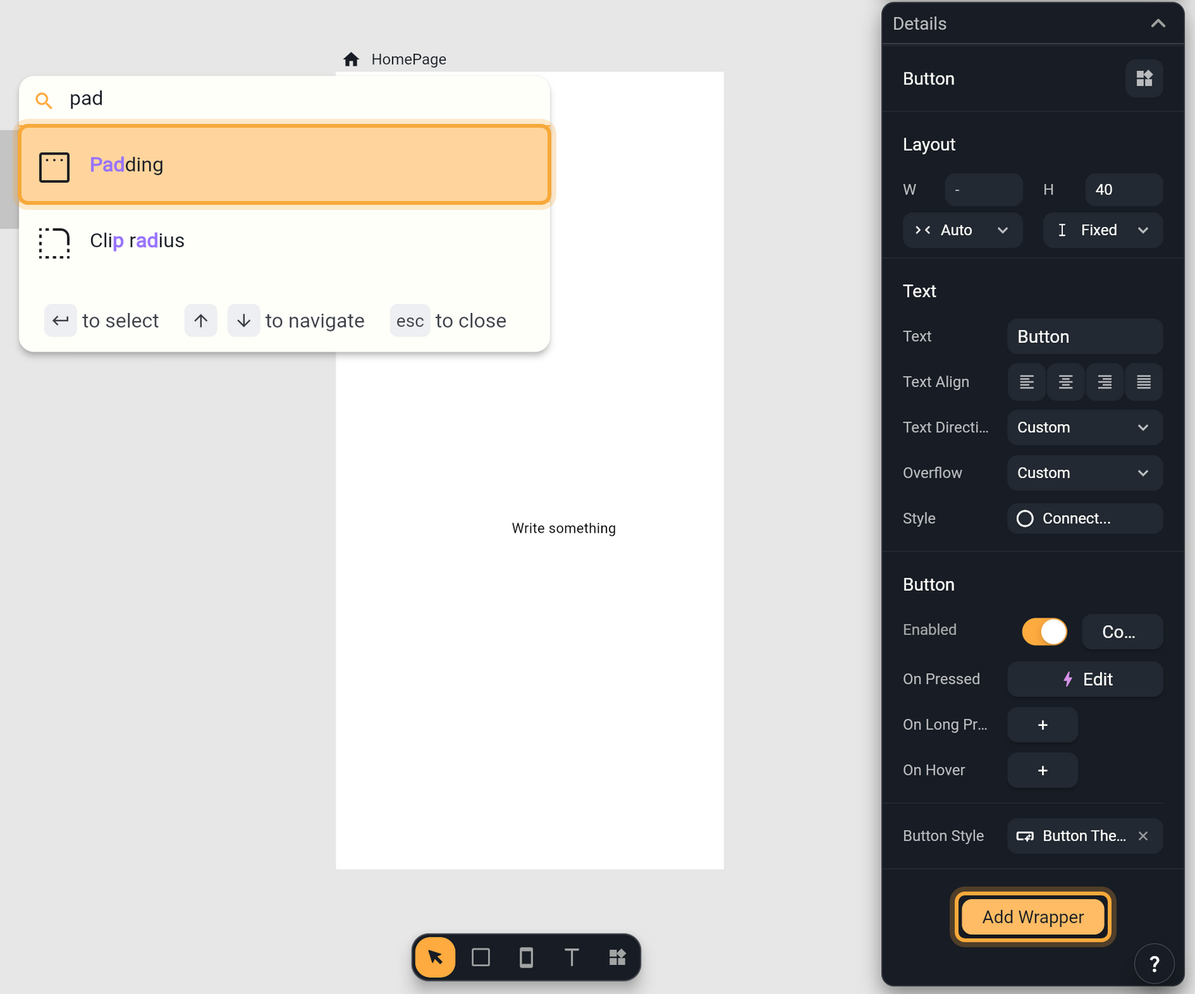
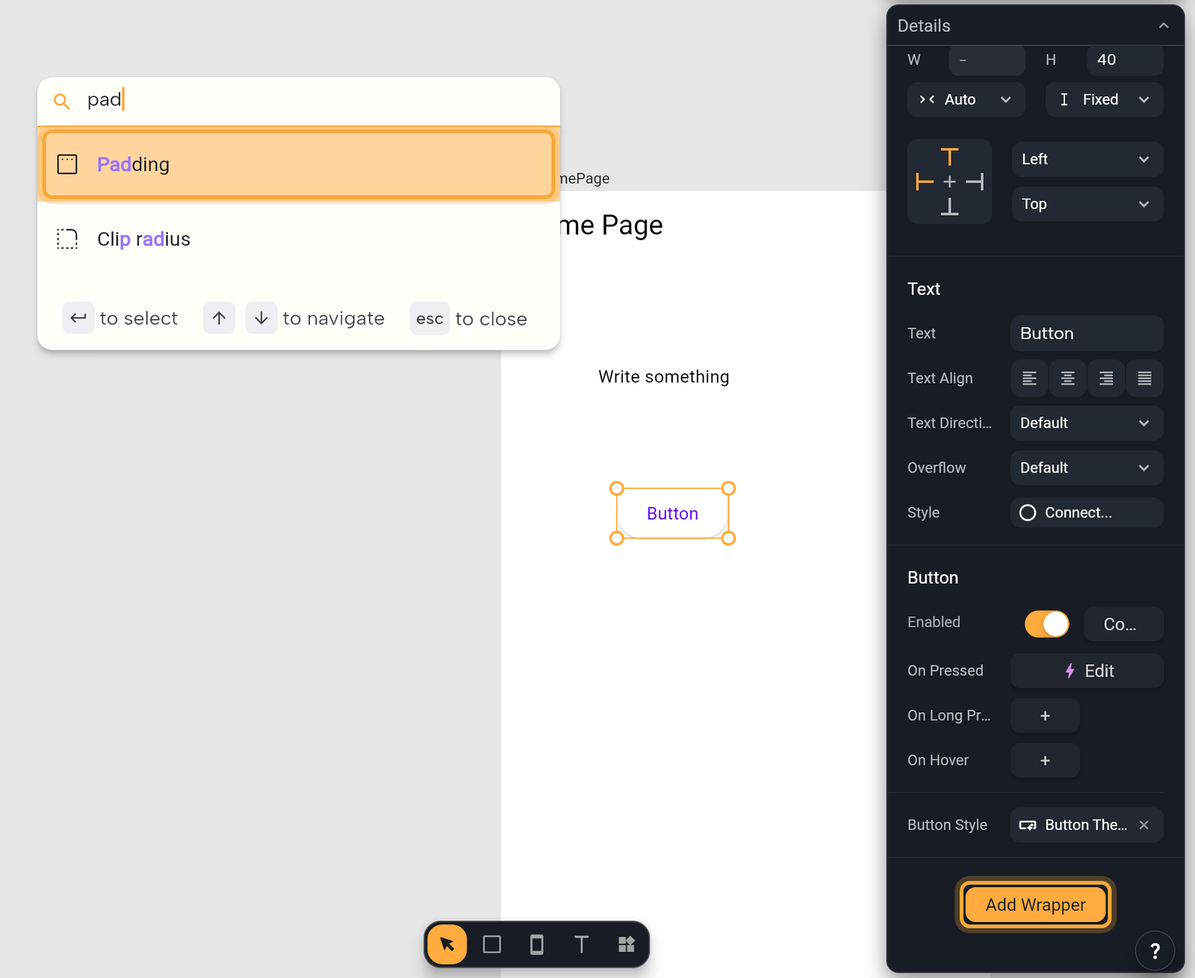
Re-take the six Nowa AI panel screenshots from 3.13 (signed in, no prompts); add an alt-text sync script
Claude-Session: https://claude.ai/code/session_01CvjREJT7NCVTsCb3JhoYvz

diff --git a/_rewrite/captures/tools/sync-alt.py b/_rewrite/captures/tools/sync-alt.py
@@ -1,0 +1,58 @@
+#!/usr/bin/env python3
+"""Refresh the alt text of embedded screenshots from the capture log.
+
+When a screenshot is re-taken under the same file name, the page keeps the old alt text. The capture log
+(_rewrite/captures/log.md, `| id | file | alt text | checked |`) holds the alt text written by whoever looked at the
+current image, so this script copies it into every `![alt](file)` that embeds that file. Videos are skipped (their
+alt cell describes placement, not the picture).
+
+Usage: python3 -I _rewrite/captures/tools/sync-alt.py [--dry-run]   (run from the docs repo root)
+"""
+import pathlib
+import re
+import sys
+
+ROOT = pathlib.Path(__file__).resolve().parents[3]
+LOG = ROOT / '_rewrite' / 'captures' / 'log.md'
+DOCS = ROOT / 'docs'
+
+
+def read_log():
+    alts = {}
+    for line in LOG.read_text().splitlines():
+        cells = [c.strip() for c in line.strip().strip('|').split('|')]
+        if len(cells) < 4 or cells[0] in ('id', '') or set(cells[0]) <= {'-'}:
+            continue
+        _, path, alt, checked = cells[:4]
+        if path.startswith('/img/') and checked.lower().startswith('yes'):
+            alts[path] = alt.replace('[', '(').replace(']', ')')
+    return alts
+
+
+def main():
+    dry_run = '--dry-run' in sys.argv
+    alts = read_log()
+    changed = 0
+    for page in sorted(DOCS.rglob('*.md*')):
+        rel = page.relative_to(DOCS).as_posix()
+        if rel.startswith(('new/', 'legacy/')):
+            continue
+        text = page.read_text()
+
+        def replace(match):
+            nonlocal changed
+            path = match.group(2)
+            if path in alts and alts[path] != match.group(1):
+                changed += 1
+                print(f'{rel}: {path}')
+                return f'![{alts[path]}]({path})'
+            return match.group(0)
+
+        new_text = re.sub(r'!\[([^\]]*)\]\((/img/[^)\s]+)\)', replace, text)
+        if new_text != text and not dry_run:
+            page.write_text(new_text)
+    print(f'alt texts {"to update" if dry_run else "updated"}: {changed}')
+
+
+if __name__ == '__main__':
+    main()

diff --git a/_rewrite/captures/log.md b/_rewrite/captures/log.md
@@ -5,19 +5,19 @@ One row per saved capture (the embed script reads this table: keep the format ex
 | id | file | alt text | checked |
 |---|---|---|---|
 | get-started-editor-tour-1 | /img/docs/get-started/get-started-editor-tour-1.png | The whole Nowa editor 3.13 with numbered callouts: 1 top bar (Back and Forward arrows, Boards chip), 2 sidebar (Assistant, Library, Themes, Search, Outline, Api, Supabase, Router), 3 side panel (the Library here), 4 board, 5 Variables and Details, 6 board toolbar, 7 status bar (v3.13.0-79), 8 support button. | yes (3.13.0) |
-| ai-index-1 | /img/docs/ai/ai-index-1.png | The AI Assistant panel on first open: the header with the New Session (+) and more (three dots) buttons, the suggestion chips, and the chat field with the Agent and thinking-level chips, Add context, Supabase, Figma and Send. | yes |
-| ai-modes-1 | /img/docs/ai/ai-modes-1.png | The mode menu open above the chat field, listing Design, Plan and Agent with a one-line description each; Agent is checked. | yes |
-| ai-context-1 | /img/docs/ai/ai-context-1.png | The Add context palette opened from the plus button in the chat field: a search box, the UPLOAD section (Attach image, Attach text file) and the FROM YOUR APP list (MyApp, AppState, AppConstants, HomePage). | yes |
-| ai-context-2 | /img/docs/ai/ai-context-2.png | The mention suggestion list (MyApp, AppState, AppConstants, HomePage) open above the chat field after typing an at sign. | yes |
-| ai-prompting-1 | /img/docs/ai/ai-prompting-1.png | The Custom Instructions popup opened from the three-dot menu of the AI Assistant panel: a short description, an empty text box with an example hint, the 0 / 5000 counter, and the Reset and Save buttons. | yes |
+| ai-index-1 | /img/docs/ai/ai-index-1.png | The AI Assistant panel on first open, with the left sidebar: the Assistant icon (highlighted) at the top, the header with the New Session (+) and more (three dots) buttons, the suggestion chips, and the chat field (highlighted) with the Agent and thinking-level chips, Add context, Supabase, Figma and Send. | yes (3.13.0) |
+| ai-modes-1 | /img/docs/ai/ai-modes-1.png | The mode menu (highlighted) open above the chat field, listing Design, Plan and Agent with a one-line description each; Agent is checked. | yes (3.13.0) |
+| ai-context-1 | /img/docs/ai/ai-context-1.png | The Add context palette (highlighted) opened from the plus button (highlighted) in the chat field: a search box, the UPLOAD section (Attach image, Attach text file) and the FROM YOUR APP list (MyApp, AppConstants, AppState, HomePage). | yes (3.13.0) |
+| ai-context-2 | /img/docs/ai/ai-context-2.png | The mention suggestion list (MyApp, AppConstants, AppState, HomePage), highlighted, open above the chat field after typing an at sign. | yes (3.13.0) |
+| ai-prompting-1 | /img/docs/ai/ai-prompting-1.png | The Custom Instructions popup opened from the three-dot menu (highlighted) of the AI Assistant panel: a short description, an empty text box (highlighted) with an example hint, the 0 / 5000 counter, and the Reset and Save buttons. | yes (3.13.0) |
 | design-templates-1 | /img/docs/design/design-templates-1.png | The screen template picker opened from the Screen tool: a Search for templates box, the Screens and Components chips, the template list (Onboarding Screen highlighted, Premium badges on Article and Dashboard) and a preview pane showing the Onboarding Screen template. | yes |
 | design-screens-1 | /img/docs/design/design-screens-1.png | The template picker for new screens with Onboarding Screen highlighted: the Search for templates box and the Screens and Components chips (highlighted together), the template list with Premium badges on Article and Dashboard, and the preview pane showing the Onboarding Screen template. | yes (3.13.0) |
 | design-boards-1 | /img/docs/design/design-boards-1.png | The Boards list open from the login_flow chip, which sits after the Back and Forward arrows: the Search boards field at the top, two boards (first, hovered, with its Rename and Delete buttons highlighted, and login_flow, the current board, marked with a check) and Create new board at the bottom, highlighted too. | yes (3.13.0) |
-| design-boards-2 | /img/docs/design/design-boards-2.png | The board with two screens, SettingsPage and HomePage, and a loose gray shape. The HomePage title bar is highlighted: it shows the home icon, the Play button and the Open in new tab button. | yes |
-| design-screens-2 | /img/docs/design/design-screens-2.png | Details for the selected home screen, scrolled down. The Screen section is highlighted (Color, App Bar, Drawer, Floating Action Button, Bottom Navigation Bar, Size). Below it are Route Settings with the Path field and the line This is the home screen. | yes |
+| design-boards-2 | /img/docs/design/design-boards-2.png | The board with a loose gray shape and two screens, HomePage (with a Button) and SettingsPage. The HomePage title bar is highlighted: it shows the home icon, the Play button and the Open in new tab button. | yes (3.13.0) |
+| design-screens-2 | /img/docs/design/design-screens-2.png | Details for the selected home screen, scrolled down. The Screen section is highlighted (Color, App Bar, Drawer, Floating Action Button, Bottom Navigation Bar, Size). Below it are Route Settings with the Path field and the line This is the home screen. | yes (3.13.0) |
 | design-add-widgets-1 | /img/docs/design/design-add-widgets-1.png | The Library opened with Ctrl/Cmd+K and button typed in the search field: the results are grouped by source with a count at the end of each heading (Packages 1 and Built-in 45, both highlighted), the Button row is highlighted after pressing the down arrow, and a details card with a preview, the name and Widget · Buttons sits beside the panel. | yes (3.13.0) |
 | reference-widgets-1 | /img/docs/reference/reference-widgets-1.png | The widget picker with svg typed in the search box. The SVG row is selected, and its preview card shows the description, the Dependencies list with flutter_svg (highlighted) and the Open Documentation link. | yes |
-| design-layout-1 | /img/docs/design/design-layout-1.png | The Group section of Details for the home screen after switching to a Row: the three layout buttons (Stack, Row, Column) are highlighted, with the Alignment grid, Main Axis Size, Spacing, Gap and Padding below. | yes |
+| design-layout-1 | /img/docs/design/design-layout-1.png | The Group section of Details for the home screen after switching to a Row: the three layout buttons (Stack, Row, Column) are highlighted with the Row arrow on, and below them the Alignment grid, Main Axis Size (max), Spacing (Fixed), Gap, Children and Padding. | yes |
 | logic-events-1 | /img/docs/logic/logic-events-1.png | The Details panel scrolled to the Button section of a selected Button: the Enabled switch, and the On Pressed row with its Edit button (highlighted), then On Long Press, On Hover, Button Style and Add Wrapper. | yes (3.13.0) |
 | design-outline-1 | /img/docs/design/design-outline-1.png | The Outline panel with HomePage expanded: the home icon, the appBar slot row, the selected Button row (highlighted, with the layers icon) and the loose Container row. | yes (3.13.0) |
 | design-index-1 | /img/docs/design/design-index-1.png | The whole editor with a Button selected and the Outline panel open. The top bar shows the Back and Forward arrows and the Boards chip, and the sidebar has the Library icon and no Files icon. The toolbar at the bottom of the board and the Variables and Details panels at the top right are highlighted. | yes (3.13.0) |
@@ -26,9 +26,9 @@ One row per saved capture (the embed script reads this table: keep the format ex
 | test-instant-play-1 | /img/docs/test/test-instant-play-1.png | The home screen playing on the board with an orange border. The stop button in its name bar and the play controls at the bottom (This screen is capturing scroll, Share preview, Reset zoom, Stop, and a warning icon) are highlighted. | yes (3.13.0) |
 | design-themes-1 | /img/docs/design/design-themes-1.png | The Themes panel with lightTheme active (the Active label and a menu arrow): the header with the Refresh and Open in New Tab buttons, the Colors tiles (Primary, Secondary, Tertiary and Surface, highlighted), Add Color, the Brightness (Light, Dark) and Mode (Fixed, Seed) switches, and the start of Typography with the Default Font button. | yes |
 | design-themes-2 | /img/docs/design/design-themes-2.png | The Themes panel next to the Edit Primary popup: its header with a back arrow and a reset icon, the Primary role tile with its on-color, the color picker with hue and opacity sliders, the HEX (6200EE) and OP (100%) fields (highlighted) and the Preview swatch. | yes |
-| design-layout-2 | /img/docs/design/design-layout-2.png | The Layout section of Details for a Button inside a Column, with the W mode dropdown open (highlighted) listing Fixed, Expand and Auto. | yes |
+| design-layout-2 | /img/docs/design/design-layout-2.png | The Layout section of Details for a Button inside a Column (the breadcrumbs read HomePage, Column and Button), with the W mode dropdown open (highlighted) listing Fixed, Expand and Auto (Auto is the current choice). The H mode shows Fixed beside it, and the Text section starts below. | yes |
 | design-properties-1 | /img/docs/design/design-properties-1.png | Details for a selected Text named Write something: the breadcrumbs (HomePage and the text), the widget name with its Create a component button, the Layout section (L, T, R, B, W, H and the constraints), the Text section (highlighted) with Text, Text Align, Text Direction, Overflow and Style, and the Add Wrapper button (highlighted) at the bottom. | yes |
-| design-properties-2 | /img/docs/design/design-properties-2.png | The wrapper search box with pad typed and Padding highlighted as the first result, next to the Details panel for a Button with the Add Wrapper button (highlighted) below the Button section. | yes |
+| design-properties-2 | /img/docs/design/design-properties-2.png | The wrapper search box with pad typed and Padding highlighted as the first result (Clip radius is the second, with the keys to select, navigate and close below), next to the Details panel for a selected Button scrolled down to the Button section, with the Add Wrapper button (highlighted) below it. | yes |
 | code-code-mode-1 | /img/docs/code/code-code-mode-1.png | Code mode: the Files tree on the left (android, assets, boards, lib with globals, main.dart and pages, macos and pubspec.yaml) with home_page.dart selected, home_page.dart open in a tab with its Dart code, the download and Show preview buttons (highlighted) at the right end of the tab bar, and the preview pane (Play · App) beside the code showing the Home Page. | yes |
 | code-files-1 | /img/docs/code/code-files-1.png | The Library with its Add menu open from the + button in the header (highlighted): New Widget..., New Folder..., New Model..., New Global State..., Generate Models From Json..., API Collection..., Import Dart code... and Upload Assets.... Only the Project chip is on, and the pages folder with HomePage is listed beside the menu. | yes |
 | code-custom-code-1 | /img/docs/code/code-custom-code-1.png | The Import Dart code dialog: a code editor with a sample formatDate function, and the buttons From file, Import, Import as Custom code (highlighted) and Cancel. | yes (3.13.0) |
@@ -72,7 +72,7 @@ One row per saved capture (the embed script reads this table: keep the format ex
 | design-add-widgets-video | /videos/docs/design/design-add-widgets-video.mp4 | page: docs/design/add-widgets.md, after heading: Add a widget with the widget picker; shows: clicking the screen's title, pressing Ctrl/Cmd+K (a key badge shows) so the widget picker opens, typing button, then dragging the Button row from the list onto the screen: the picker closes while dragging and the Button lands on the screen, selected, with its settings in Details. | yes |
 | logic-circuit-video | /videos/docs/logic/logic-circuit-video.mp4 | page: docs/logic/circuit.md, after heading: Add a node; shows: clicking Edit next to On Pressed of a Button so Circuit opens, hovering the dot under the orange onPressed node until it becomes a plus, clicking it to open the All nodes for this circuit menu, typing snack and clicking Show snackbar under GLOBALS: the showSnackBar node appears with its Details (Content, Background Color, Width, Elevation, Shape, Store result). | yes (3.13.0) |
 | design-themes-video | /videos/docs/design/design-themes-video.mp4 | page: docs/design/themes.md, after heading: Edit colors; shows: opening Themes in the sidebar, clicking the Primary tile and dragging the hue slider in the Edit Primary popup from purple to pink and on to orange, while the progress bar, the switch and the checkbox on the screen change color live, then the back arrow closes the popup. | yes |
-| guides-ai-tips-1 | /img/docs/guides/guides-ai-tips-1.png | The bottom of the AI Assistant panel with a Button selected on the board. The chat field shows the selection chip Button with its remove (x) button above the Build something wild hint (highlighted), and below it the Agent mode chip, the Thinking level chip and the + (Add context) button (highlighted), then the Supabase, Figma and Send buttons. | yes |
+| guides-ai-tips-1 | /img/docs/guides/guides-ai-tips-1.png | The bottom of the AI Assistant panel with the AppBar of the home screen selected on the board. The chat field shows the selection chip AppBar with its remove (x) button (highlighted) above the Build something wild hint, and below it the Agent mode chip, the Thinking level chip and the + (Add context) button (highlighted), then the Supabase, Figma and Send buttons. | yes (3.13.0) |
 | get-started-first-app-1 | /img/docs/get-started/get-started-first-app-1.png | The dashboard prompt box under What do you want to build? with a short habit tracker prompt typed, and the mode menu open under the Design chip (highlighted): Design marked Start here, Plan and Agent. The Thinking chip, the send button and the example prompt chips (Split the Bill and part of Shared Grocery List) are around it. | yes |
 | account-index-1 | /img/docs/account/account-index-1.png | The Nowa dashboard after sign-in: the sidebar (highlighted) with the Personal workspace switcher, RECENTS, Upgrade your plan, Invite a Friend, Download Desktop App, Hire an Expert, Learning Resources, Settings and the account name with its plan badge (email blurred). The main area has the What do you want to build? prompt box with the Design and Thinking chips and example prompts, and the Projects header (highlighted) with Search, the sort button, the grid and list switch, New project and three project cards. The ? support button is at the bottom right. | yes |
 | account-projects-1 | /img/docs/account/account-projects-1.png | The Projects header on the dashboard (the title with the count 3, the Search box, the sort button and the grid and list switch) with the arrow menu of New project open and highlighted: New project and Clone from GitHub. The menu sits over the New project button and part of the view switch. | yes |

diff --git a/_rewrite/captures/ui-diffs-3.13.md b/_rewrite/captures/ui-diffs-3.13.md
@@ -11,7 +11,7 @@ One row per place where the docs text no longer matches the 3.13 UI (renamed lab
 | docs/account/projects.md (Find a project) | Cards show a cover image, "its name and when you last edited it, such as 'Edited 5m ago'". | A cloud project's card shows its name with the project's package name under it (for example `docs_capture_notes`). "Edited 5m ago" replaces the package name only while you point at the card (`packages/nowa_ui/lib/dashboard/projects_grid.dart:79`, same in 3.12.5). **RECENTS** and list rows always show "Edited ... ago". | account-projects-2 |
 | docs/reference/widgets/navigation.md (same claim in docs/design/select-and-edit.md, table "Where a dragged widget lands") | "Drag it from the list onto the screen. It lands in its own place, not in the body." / "A screen: An App Bar, Floating Action Button, Bottom Navigation Bar or Drawer goes into its slot." | Dragging Floating Button, Bottom Navigation Bar or Drawer from the **Library** onto the screen drops it into the body as a free widget (the Outline shows it next to `appBar`, Layout shows L / T, and the Bottom Navigation Bar then reports "Could not find index for navbar" in the status bar). The slot is filled from **Details** → **Screen**: click the **Floating Action Button** / **Bottom Navigation Bar** / **Drawer** slot (shows null), pick the widget in the "Search for a widget" dialog, press Enter. The result looks like the old shot | reference-navigation-1 |
 | docs/integrations/revenuecat.md | "Choose it. If Nowa shows **Add Missing Dependencies**, click **Add**." then "The widget sits on the board as a placeholder labeled "RevenueCat Paywall" with the text "Run to preview"." | Not a label change: with the live package analyzer, **RevenueCat Paywall** is not placed. **Add Missing Dependencies** shows the two packages (purchases_flutter, purchases_ui_flutter) and its **Add** button stays on "Adding..." for the second one (over 3 minutes in this run, and Cancel did not close it); adding both packages in `pubspec.yaml` instead and reloading, the widget is refused with the status bar message "Bad state: The target expression should be a widget, but 'const PaywallView()' is a 'PaywallView'" (the analyzer's answer for purchases_ui_flutter has no superclass, its types read `InvalidType`). The placeholder card in the screenshot was drawn with a stand-in analyzer answer (same as for 3.12.5) | integrations-revenuecat-1 |
-| docs/ai/index.md, docs/ai/modes.md, docs/ai/context.md, docs/ai/prompting.md, docs/guides/ai-tips.md | The **AI Assistant** panel shows "Welcome to AI Assistant!", the suggestion chips and, at the bottom, the chat field with the **Agent** mode chip, the thinking-level chip, **+** (Add context), Supabase, Figma and Send; **+** opens the Add context palette, the mode chip opens the Design / Plan / Agent menu, and typing `@` lists what you can mention above the field | In the signed-out 3.13.0 playground (app.nowa.dev/playground, v3.13.0-79) the panel header works (**+**, and the three-dot menu with **Custom Instructions** and **Chat History**), but there is no welcome text and no suggestion chips, the chat field sits at the top under "Build something wild..." and a light-gray error box fills the rest of the panel where the field's toolbar (mode chip, thinking chip, +, Supabase, Figma, Send) should be. The mode menu and the Add context palette can't be opened, and the `@` list opens above the field and is cut off by the top of the window. The status bar shows "Exception: BillingProvider is not initialized. Call initialize() first." Likely cause (dev source): `packages/ai/lib/src/ui/chat_field/ai_chat_field.dart:1028` calls `context.watch<BillingProvider>().getGrantSync(...)` while building the thinking-level chip, and that throws until billing is initialized (it is only initialized after sign-in). Not re-taken, so these images still show 3.12.5 (ai-index-1 still has the old sidebar with the Widgets and Files icons) | not re-taken: ai-index-1, ai-modes-1, ai-context-1, ai-context-2, ai-prompting-1, guides-ai-tips-1 |
+| docs/ai/index.md, docs/ai/modes.md, docs/ai/context.md, docs/ai/prompting.md, docs/guides/ai-tips.md | The **AI Assistant** panel shows "Welcome to AI Assistant!", the suggestion chips and, at the bottom, the chat field with the **Agent** mode chip, the thinking-level chip, **+** (Add context), Supabase, Figma and Send; **+** opens the Add context palette, the mode chip opens the Design / Plan / Agent menu, and typing `@` lists what you can mention above the field | In the signed-out 3.13.0 playground (app.nowa.dev/playground, v3.13.0-79) the panel header works (**+**, and the three-dot menu with **Custom Instructions** and **Chat History**), but there is no welcome text and no suggestion chips, the chat field sits at the top under "Build something wild..." and a light-gray error box fills the rest of the panel where the field's toolbar (mode chip, thinking chip, +, Supabase, Figma, Send) should be. The mode menu and the Add context palette can't be opened, and the `@` list opens above the field and is cut off by the top of the window. The status bar shows "Exception: BillingProvider is not initialized. Call initialize() first." Likely cause (dev source): `packages/ai/lib/src/ui/chat_field/ai_chat_field.dart:1028` calls `context.watch<BillingProvider>().getGrantSync(...)` while building the thinking-level chip, and that throws until billing is initialized (it is only initialized after sign-in). This only affects the signed-out playground. Signed in (cloud project "Docs capture Main", v3.13.0-79) the panel works as the page text says (welcome text, suggestion chips, the Agent and thinking-level chips, **+**, the mode menu, the Add context palette, the `@` list, **Custom Instructions**), and the six images were re-taken signed in. Small changes against the old 3.12.5 shots: the sidebar has **Library** (2nd icon) and **Git** (with a change-count badge) instead of **Widgets** and **Files**, and the Add context palette and the `@` list read MyApp, AppConstants, AppState, HomePage (3.12.5: MyApp, AppState, AppConstants, HomePage) | re-taken signed in (3.13.0): ai-index-1, ai-modes-1, ai-context-1, ai-context-2, ai-prompting-1, guides-ai-tips-1 |
 | docs/get-started/editor-tour.md (callout 3 and its alt text), docs/get-started/playground.md | "**AI Assistant** is open by default" in the side panel (callout 3 reads "side panel (AI Assistant)"). | In the playground (no account) the AI Assistant panel opens by default but its chat area fails to draw: the chat field fills the panel ("Build something wild...") with a gray box in it, there is no welcome text or suggestion chips, and the status bar logs "Exception: BillingProvider is not initialized. Call initialize() first." (`packages/ai/lib/src/ui/chat_field/ai_chat_field.dart:1028` reads a billing grant that guests never load; the Console's **Clear** button resets the status bar to Ready until the panel draws again). The tour image shows the **Library** as the side panel instead, so its alt text "(AI Assistant)" no longer matches. | get-started-editor-tour-1 |
 | docs/design/add-widgets.md (alt text of design-add-widgets-1), docs/design/library.md (design-library-2) | The search field "reads Add... with button typed"; "the first result is highlighted" and a details card sits beside the panel. | The Add... hint shows only while the field is empty; with button typed the field shows the typed text. The first result is CustomButton (group Packages, nowa_runtime), because Packages comes before Built-in; Nowa's own Button is the first row of Built-in (45). The details card appears after one press of the down arrow (it then shows Button) or a click, and the highlight moves with it. | design-add-widgets-1 (same image as design-library-2) |
 

diff --git a/_rewrite/captures/requests/W3.md b/_rewrite/captures/requests/W3.md
@@ -4,9 +4,9 @@
 |---|---|---|---|---|---|---|
 | design-index-1 | docs/design/index.md | playground starter open; Outline panel open in the left sidebar; a screen with a few widgets on the board and one widget selected | the whole editor: board chip in the top bar, sidebar with the Outline panel, a screen with its title bar, Variables and Details on the right, the toolbar at the bottom | full editor window | png | captured |
 | design-boards-1 | docs/design/boards.md | playground starter open; create a second board so the menu has two rows; click the board chip in the top bar; hover one row | the board menu with both boards, the hover buttons Rename and Delete, and Create new board | top bar left half + open menu | png | captured |
-| design-boards-2 | docs/design/boards.md | playground starter open; add a second screen and one Shape (Container) to the board; hover the home screen's title bar | the board with two screens and a loose shape; the home screen's title bar with the home icon, Play and Open in new tab | the board area | png | captured |
+| design-boards-2 | docs/design/boards.md | playground starter open; add a second screen and one Shape (Container) to the board; hover the home screen's title bar | the board with two screens and a loose shape; the home screen's title bar with the home icon, Play and Open in new tab | the board area | png | captured (re-taken in 3.13.0) |
 | design-screens-1 | docs/design/screens.md | playground starter open; click Screen in the toolbar; highlight a template that has a preview | the template picker: Search for templates box, Screens and Components tabs, the list (with a Premium badge if visible) and the preview pane | the picker dialog | png | captured (re-taken in 3.13.0) |
-| design-screens-2 | docs/design/screens.md | playground starter open; click the title of the home screen; scroll Details down to the Screen section | Details for a selected screen: name with the pencil and Open in New Tab buttons, Add description, the Screen section with Color, the slots, Size, Route Settings and the home screen line | the Details panel | png | captured |
+| design-screens-2 | docs/design/screens.md | playground starter open; click the title of the home screen; scroll Details down to the Screen section | Details for a selected screen: name with the pencil and Open in New Tab buttons, Add description, the Screen section with Color, the slots, Size, Route Settings and the home screen line | the Details panel | png | captured (re-taken in 3.13.0) |
 | design-components-1 | docs/design/components.md | playground starter open; draw a Container with the Shape tool; right-click it and choose Create component | the New Component from Container dialog: name field, Class name, Path, Cancel and Submit | the dialog | png | captured (re-taken in 3.13.0) |
 | design-components-2 | docs/design/components.md | playground starter open; Widgets panel open with the Component tab selected and at least one component (create one first); right-click a tile | the Widgets panel with Search, the grid/list button, the Page and Component switch, and the right-click menu (Open in Editor, Rename, Delete) | left panel + menu | png | captured |
 | design-add-widgets-1 | docs/design/add-widgets.md | playground starter open; click Widget in the toolbar (or press Ctrl+K); keep Container highlighted | the widget picker: Search for a widget box, Request a Widget link, Search for: All / BuiltIn / Components chips, the list, the preview pane with Open Documentation, and the footer hints | the picker dialog and preview | png | captured |
